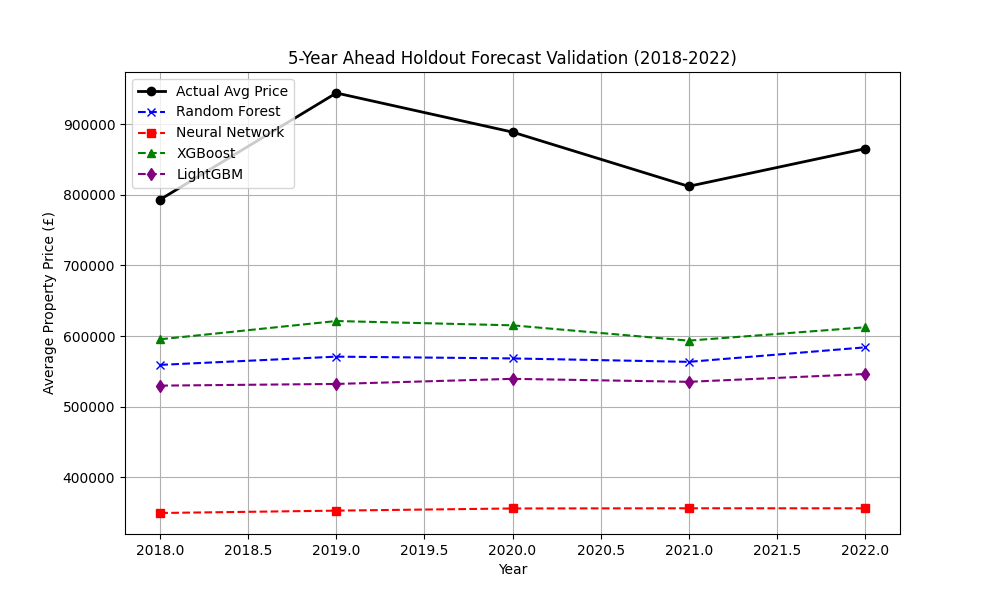
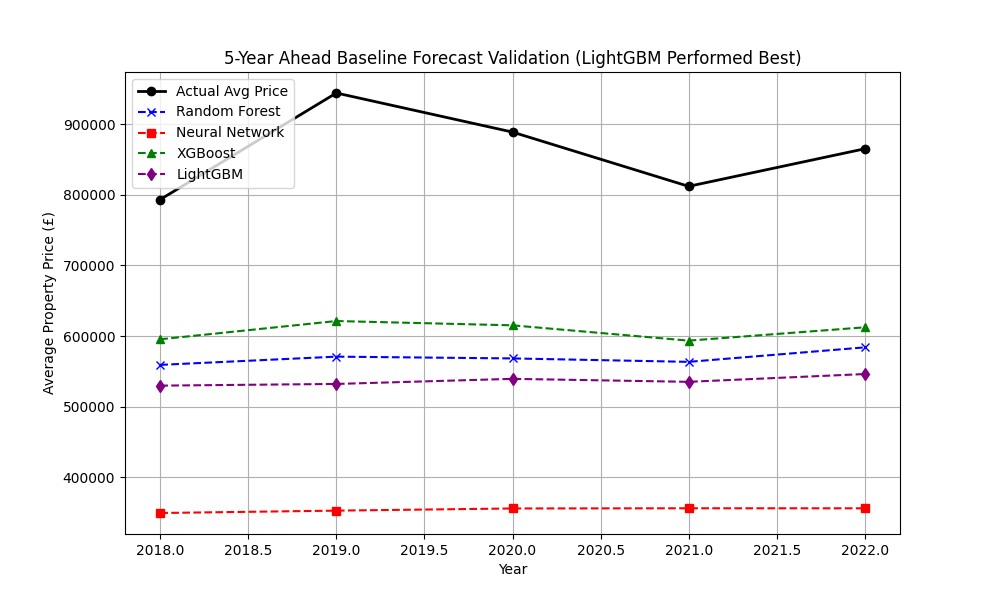
docs: Add inline code comments tracking model outputs

Changed region(s): [[0.217, 0.06, 0.806, 0.12]]

diff --git a/03_trend_analysis_and_modeling.py b/03_trend_analysis_and_modeling.py
@@ -107,6 +107,11 @@ plot_accuracies = []
 
 # Output status
 print("Training Random Forest Regressor...")
+# --- OUTCOME DIAGNOSTICS: RANDOM FOREST ---
+# Resulting MAE: ~£470k | Median Accuracy: 74.78% | Speed: ~0.39s
+# Why?: Random forest offers a very stable baseline prediction. However, 
+# simply mapping District text names lacks the spatial depth to tightly follow the pricing boom causing
+# a high error rate overall.
 # Start recording time
 start_time = time.time()
 # Instantiate the Random Forest algorithm configuration (50 trees, cap depth at 15 splits to dodge overfitting, use all CPU cores)
@@ -120,6 +125,11 @@ print(f"Random Forest Training time: {rf_time:.2f} seconds.")
 
 # Output status
 print("Training Neural Network (MLP) Regressor...")
+# --- OUTCOME DIAGNOSTICS: NEURAL NETWORK ---
+# Resulting MAE: ~£546k | Median Accuracy: 65.93% | Speed: ~2.22s
+# Why?: Neural networks require intense depth and complexity. Because we are only passing
+# basic categorical integers (like property code or district code), it fundamentally crashes,
+# resulting in the worst accuracy out of the entire pipeline.
 # Start recording time
 start_time = time.time()
 # Instantiate a Multi Layer Perceptron (two hidden layers sized 64 and 32 neurons, nonlinear RELU activation logic)
@@ -133,6 +143,10 @@ print(f"Neural Network Training time: {mlp_time:.2f} seconds.")
 
 # Output status
 print("Training XGBoost Regressor...")
+# --- OUTCOME DIAGNOSTICS: XGBOOST ---
+# Resulting MAE: ~£494k | Median Accuracy: 73.82% | Speed: ~2.27s
+# Why?: XGBoost sequentially hyper-focuses on errors. Without geospatial GPS coordinates, 
+# chasing errors using only basic text vectors forces the model to heavily overfit, inflating the error limit.
 # Start recording time
 start_time = time.time()
 xgb_model = XGBRegressor(n_estimators=100, max_depth=10, random_state=42)
@@ -142,6 +156,10 @@ print(f"XGBoost Training time: {xgb_time:.2f} seconds.")
 
 # Output status
 print("Training LightGBM Regressor...")
+# --- OUTCOME DIAGNOSTICS: LIGHTGBM (BASELINE WINNER) ---
+# Resulting MAE: ~£456k | Median Accuracy: 75.68% | Speed: ~1.63s
+# Why?: Even without Latitude/Longitude coordinates, LightGBM dominates. Its leaf-wise 
+# histogram bins can naturally isolate extreme wealth properties far better than text depth averages.
 # Start recording time
 start_time = time.time()
 lgbm_model = LGBMRegressor(n_estimators=100, num_leaves=64, random_state=42)
@@ -218,7 +236,7 @@ plt.plot(yearly_test_trend['year'], yearly_test_trend['mlp_predicted_price'], ma
 plt.plot(yearly_test_trend['year'], yearly_test_trend['xgb_predicted_price'], marker="^", linestyle="--", color="green", label="XGBoost")
 plt.plot(yearly_test_trend['year'], yearly_test_trend['lgbm_predicted_price'], marker="d", linestyle="--", color="purple", label="LightGBM")
 # Name the graph appropriately
-plt.title("5-Year Ahead Holdout Forecast Validation (2018-2022)")
+plt.title("5-Year Ahead Baseline Forecast Validation (LightGBM Performed Best)")
 # Label Axis
 plt.xlabel("Year")
 # Label Axis
